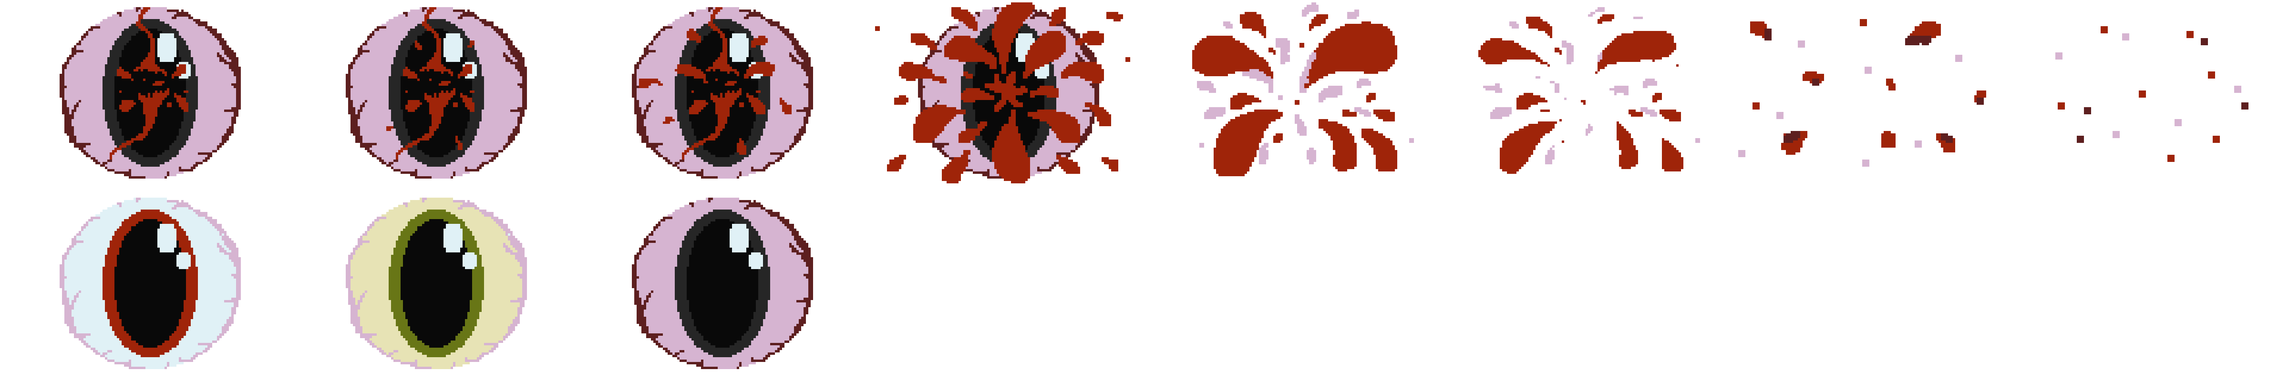
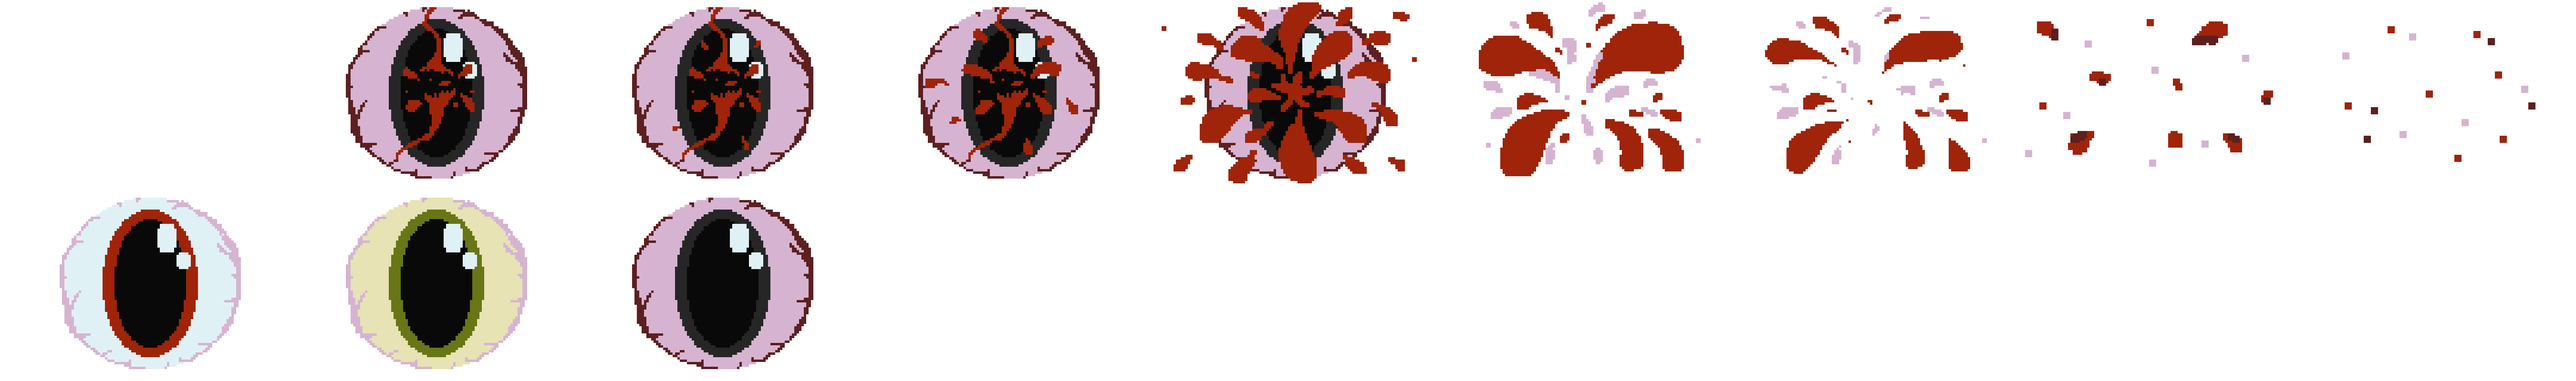
test fixes

diff --git a/sketch.js b/sketch.js
@@ -9,8 +9,8 @@ Copyright (c) 2023 Kyle Arquilla. Information in LICENSE.txt file
 const MAX_LIVES = 5;
 const enBrnIncAmt = 8;      // default 10
 const enEIncAmt = 2;        // default 5
-let enBrnStartamt = 8;    	// brain enemy start amount
-let enEStartamt = 2;    	// eye enemy start amount
+let enBrnStartamt = 1;    	// brain enemy start amount
+let enEStartamt = 50;    	// eye enemy start amount
 let alpha1 = 0;         	// sets alpha for next stage
 let player1; 				// player sprite
 let life;     				// lives sprite
@@ -137,7 +137,7 @@ function draw() {
 		pointer.draw();
 		playerHit();
 		setGameOver();
-		pause()
+		pauseScreen()
 	}
 
 	if(gameState == 'nextStage')
@@ -162,6 +162,7 @@ function draw() {
 		resetSwitch();
 		buttons.draw();
 		Dashboard();
+		HUD.draw();
 	}
 }
 
@@ -209,8 +210,9 @@ function spriteAniSetup()
 
 	Eexplns = new Group();
 	Eexplns.spriteSheet = EexplnsAni;
-	Eexplns.addAnis({explode: { width:600, height: 400, row: 0, frames: 8, frameDelay: 5},
-						 hit: { width:600, height: 400, row: 1, frames: 3, frameDelay: 15}});
+	Eexplns.addAnis({explode: { width:600, height: 400, col: 1, row: 0, frames: 8, frameDelay: 5},
+						 hit: { width:600, height: 400, row: 1, frames: 3, frameDelay: 15},
+						 empty: { width:600, height: 400, row: 0, frames: 1, frameDelay: 15}});
 
 	enlasers = new Group();
 	enlasers.spriteSheet = enlasersAni;
@@ -429,7 +431,7 @@ function BrnexplnsSprite(x,y,rot)
 {
 Brnexpln = new Brnexplns.Sprite(x,y);
 Brnexpln.rotation = rot;
-setTimeout(function() {Brnexplns[Brnexplns.length-1].remove();},400)
+setTimeout(function() {Brnexplns[0].remove();},400)
 }
 
 /////////////
@@ -437,9 +439,9 @@ setTimeout(function() {Brnexplns[Brnexplns.length-1].remove();},400)
 function EexplnsSprite(x,y,rot)
 {
 Eexpln = new Eexplns.Sprite(x,y);
-Eexpln.ani = ['hit','explode',';;']
+Eexpln.ani = ['hit','explode','empty']
 Eexpln.rotation = rot;
-setTimeout(function() {Eexplns[Eexplns.length-1].remove();},1300)
+setTimeout(function() {Eexplns[0].remove();},1300)
 }
 
 //removes life when player is hit.
@@ -664,6 +666,7 @@ function setGameOver()
 		enlasers.remove();
 		lasers.remove();
 		PwrUps.remove();
+		pointer.remove();
 	}
 }
 
@@ -945,7 +948,7 @@ function createButtons()
 	Bttn_start = new buttons.Sprite(width/2 + 10,height/2 + 130,100,50);
 	Bttn_start.img = startButtonImg
 	Bttn_start.collider = 'k';
-	Bttn_start.scale = 2;
+	Bttn_start.scale = 0.5;
 	//Bttn_start.img = 'assets/empty.png';
 	
 }
@@ -1039,7 +1042,7 @@ function nextStageButton()
 	camera.off()
 	Bttn_nextStage = new buttons.Sprite(width/2, height/2 + 100, 100, 75);
 	Bttn_nextStage.img = continueButtonImg;
-	Bttn_nextStage.scale = 2
+	Bttn_nextStage.scale = 0.5;
 	Bttn_nextStage.collider = 'k';
 
 }
@@ -1138,33 +1141,39 @@ function TractorBeam()
 	}
 }
 
-function pause()
+function pauseScreen()
 {
 	if (gamePaused)
 	{
 		push();
+		stroke('black')
 		textSize(30)
-		fill(color('darkred'))
+		fill('darkred')
 		textAlign(CENTER,CENTER)
 		text('paused',width/2,height/2 - 50)
 		pop();
 	}
 }
 
+// pause function
 function keyPressed() 
 {
-	if (keyCode === ESCAPE) {
-	  gamePaused = !gamePaused;
-  
-	  if (gamePaused) {
-		
-		noLoop();
-	  } else {
-		// Resume the game
-		loop();
-	  }
+	if (gameState == 'run')
+	{
+		if (keyCode === ESCAPE) 
+		{
+			gamePaused = !gamePaused;
+			if (gamePaused) 
+			{
+				noLoop();
+			} 
+			else 
+			{
+				loop();
+			}
+		}
 	}
-  }
+}
 		
 
 

diff --git a/index.html b/index.html
@@ -12,12 +12,13 @@
     <script src="libraries/p5.sound.min.js"></script>
 		<script src="libraries/planck.min.js"></script>
 		<script src="libraries/p5play.js"></script>
-    <script src="sketch.js"></script>
+    
+
 
 
   </head>
 
   <body>
-
+    <script src="sketch.js"></script>
   </body>
 </html>
